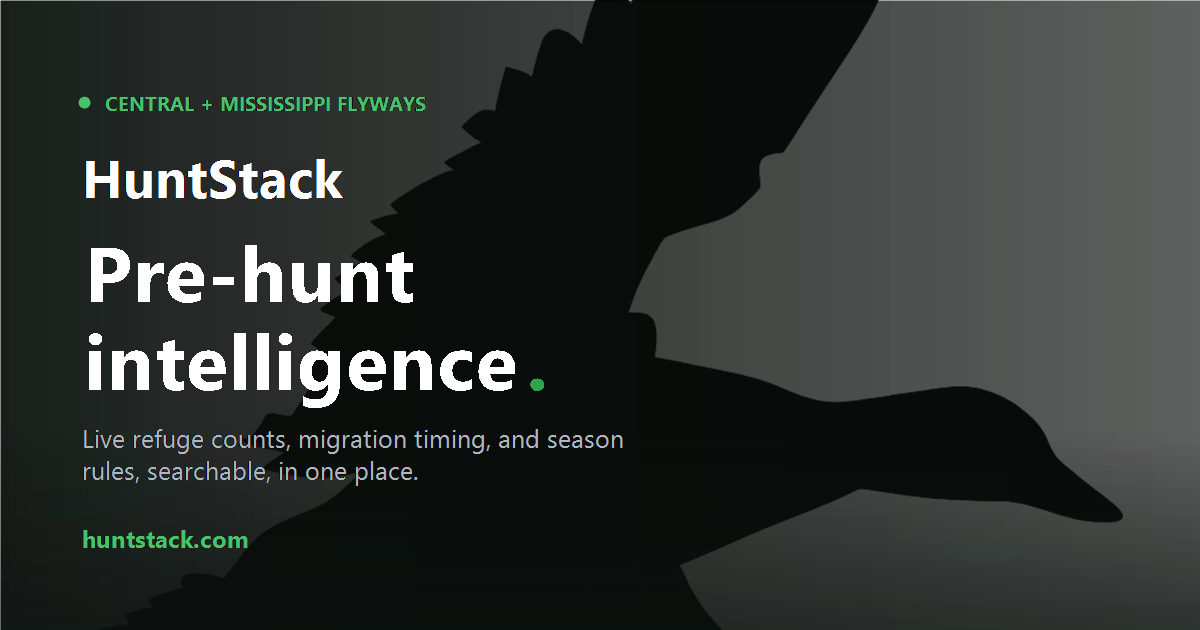
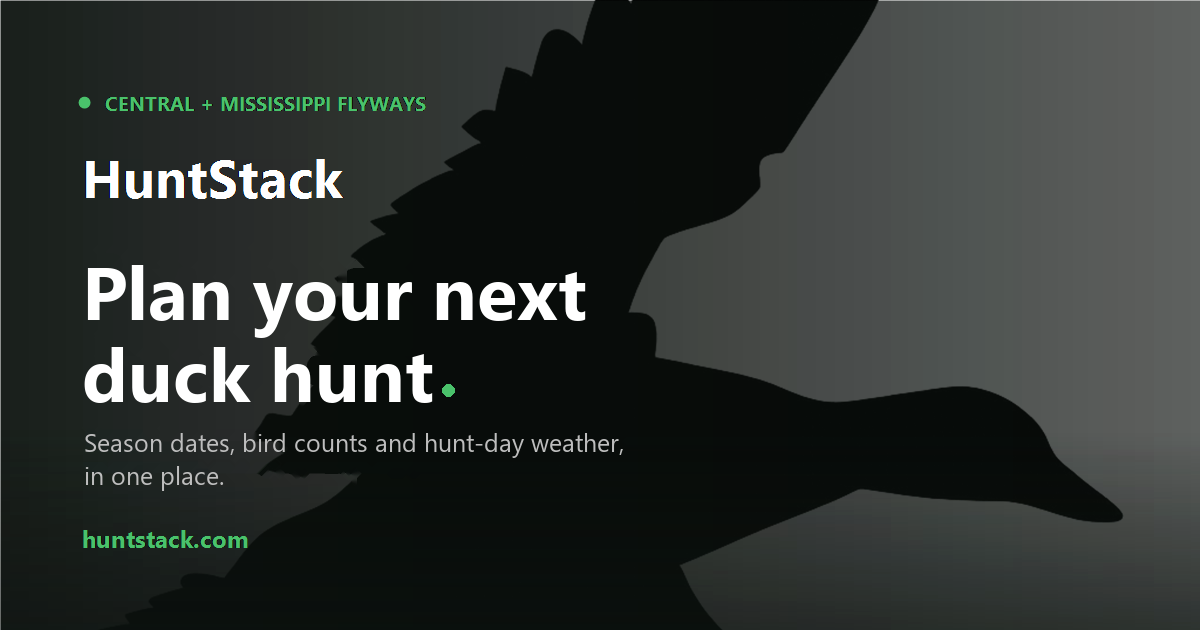
Lead the home page with hunt planning
The home page now opens with "Plan your next duck hunt" and a question box that sends straight to the chat, with three example questions. Feature cards are the questions a hunt starts with (is it open, are the birds there, is this weekend worth it). The stats strip shows checked numbers instead of the old 800+ count rows, and coverage names only the six states with full season data.

The menu leads with Where to Hunt, Migration, Regulations and Ask AI. The page title, descriptions, link-preview image and README tagline carry the same pitch.

Changed region(s): [[0.0617, 0.3921, 0.5242, 0.7841]]

diff --git a/apps/web/src/pages/HomePage.tsx b/apps/web/src/pages/HomePage.tsx
@@ -1,55 +1,77 @@
-import { Link } from 'react-router-dom'
-import { ArrowRight, TrendingUp, MapPin, FileText, MessageSquare, Bird, Zap, BarChart2, Compass } from 'lucide-react'
+import { useState } from 'react'
+import { Link, useNavigate } from 'react-router-dom'
+import { ArrowRight, TrendingUp, MapPin, FileText, MessageSquare, Bird, Zap, BarChart2, Compass, Send } from 'lucide-react'
 
-const features = [
+// Planning steps, in the order a hunter works through them.
+const steps = [
+  {
+    icon: FileText,
+    question: 'Is it open?',
+    title: 'Regulations',
+    description: 'Season dates by zone, bag limits and licenses, entered from each state agency with a link to the source.',
+    href: '/regulations',
+    cta: 'Check seasons',
+  },
   {
     icon: Bird,
-    title: 'Migration Intelligence',
-    description: 'Live refuge counts, week-over-week deltas, cold front push scores, and flyway flow — updated weekly.',
+    question: 'Are the birds there?',
+    title: 'Migration',
+    description: 'Refuge and aerial survey counts, week-over-week changes and cold-front push scores across both flyways.',
     href: '/migration',
-    cta: 'View Dashboard',
+    cta: 'See migration',
   },
   {
     icon: Compass,
+    question: 'Is this weekend worth it?',
     title: 'Where to Hunt',
-    description: 'Ranked public hunting areas scored by current bird activity, open seasons, weather, and distance from you.',
+    description: 'Public areas near you ranked by bird numbers, open seasons, hunt-day weather and distance.',
     href: '/where-to-hunt',
-    cta: 'Find Locations',
-  },
-  {
-    icon: FileText,
-    title: 'Regulation Intelligence',
-    description: 'Structured seasons, bag limits, and license requirements for TX, NM, AR, LA, KS, OK — no PDFs.',
-    href: '/regulations',
-    cta: 'Check Regulations',
+    cta: 'Find a spot',
   },
   {
     icon: MessageSquare,
-    title: 'Ask AI',
-    description: 'Ask in plain language. Answers search the web and back it up with our season, license and migration data.',
+    question: 'Anything else?',
+    title: 'Ask',
+    description: 'Ask in plain language. Answers search the web and check it against our season and survey data, with sources.',
     href: '/chat',
-    cta: 'Ask a Question',
+    cta: 'Ask a question',
   },
 ]
 
+// Keep these true: check against the database when the data grows.
 const stats = [
-  { value: '800+', label: 'Refuge count rows' },
-  { value: '7', label: 'Live data sources' },
-  { value: '6', label: 'Priority states' },
-  { value: '2', label: 'Flyways covered' },
+  { value: '6', label: 'States with full season rules' },
+  { value: '5,200+', label: 'Survey counts' },
+  { value: '1997', label: 'Survey history back to' },
+  { value: '2', label: 'Flyways' },
 ]
 
 const flyways = [
-  { name: 'Central Flyway', states: 'TX · NM · KS · OK', color: 'text-forest-400' },
-  { name: 'Mississippi Flyway', states: 'AR · LA · MO', color: 'text-accent-400' },
+  { name: 'Central Flyway', states: 'TX · OK · KS · NM', note: null, color: 'text-forest-400' },
+  { name: 'Mississippi Flyway', states: 'AR · LA', note: 'Survey counts also for MO · IL', color: 'text-accent-400' },
+]
+
+const exampleQuestions = [
+  'Is duck season open in the Kansas Low Plains this weekend?',
+  'Where should I hunt snow geese near Amarillo?',
+  'What is the duck bag limit in Arkansas?',
 ]
 
 export function HomePage() {
+  const navigate = useNavigate()
+  const [question, setQuestion] = useState('')
+
+  const ask = (text: string) => {
+    const q = text.trim()
+    if (!q) return
+    navigate(`/chat?q=${encodeURIComponent(q)}`)
+  }
+
   return (
     <div>
       {/* Hero */}
       <section className="bg-earth-900 dark:bg-[#0d1117] border-b border-earth-800 dark:border-[#21262d]">
-        <div className="max-w-7xl mx-auto px-4 sm:px-6 lg:px-8 py-20 md:py-28">
+        <div className="max-w-7xl mx-auto px-4 sm:px-6 lg:px-8 py-16 md:py-24">
           <div className="max-w-2xl">
             {/* Eyebrow */}
             <div className="inline-flex items-center gap-2 px-3 py-1 rounded-full border border-forest-700 bg-forest-900/40 mb-6">
@@ -58,23 +80,67 @@ export function HomePage() {
             </div>
 
             <h1 className="text-4xl md:text-5xl lg:text-6xl font-bold leading-tight text-white">
-              Pre-hunt intelligence
+              Plan your next duck hunt
               <span className="text-forest-400">.</span>
             </h1>
             <p className="mt-5 text-lg md:text-xl text-earth-300 leading-relaxed">
-              Replace Googling across state websites and PDF regulations with structured data, live refuge counts, and AI.
+              Season dates, bird counts and hunt-day weather in one place, instead of a dozen agency
+              websites and PDFs.
             </p>
-            <div className="mt-10 flex flex-col sm:flex-row gap-3">
-              <Link to="/migration" className="btn-primary text-base px-6 py-3 inline-flex items-center justify-center">
-                <TrendingUp className="mr-2 w-5 h-5" />
-                Migration Dashboard
-              </Link>
-              <Link
-                to="/where-to-hunt"
-                className="btn inline-flex items-center justify-center bg-white/10 text-white hover:bg-white/20 border border-white/20 text-base px-6 py-3"
-              >
+
+            {/* Ask box */}
+            <form
+              onSubmit={(e) => {
+                e.preventDefault()
+                ask(question)
+              }}
+              className="mt-8"
+            >
+              <label htmlFor="home-ask" className="sr-only">Ask a question about your hunt</label>
+              <div className="flex flex-col sm:flex-row gap-2">
+                <input
+                  id="home-ask"
+                  type="text"
+                  value={question}
+                  onChange={(e) => setQuestion(e.target.value)}
+                  placeholder="Ask anything about your hunt"
+                  maxLength={500}
+                  className="flex-1 min-w-0 rounded-md px-4 py-3 text-base bg-white/10 text-white placeholder-earth-400 border border-white/20 focus:outline-none focus:ring-2 focus:ring-forest-500"
+                />
+                <button
+                  type="submit"
+                  disabled={!question.trim()}
+                  className="btn-primary text-base px-5 py-3 inline-flex items-center justify-center disabled:opacity-50"
+                >
+                  <Send className="mr-2 w-4 h-4" />
+                  Ask
+                </button>
+              </div>
+              <div className="mt-3 flex flex-wrap gap-2">
+                {exampleQuestions.map((q) => (
+                  <button
+                    key={q}
+                    type="button"
+                    onClick={() => ask(q)}
+                    className="text-left text-sm px-3 py-1.5 rounded-full border border-white/15 text-earth-300 hover:bg-white/10 hover:text-white transition-colors"
+                  >
+                    {q}
+                  </button>
+                ))}
+              </div>
+            </form>
+
+            <div className="mt-8 flex flex-col sm:flex-row gap-3">
+              <Link to="/where-to-hunt" className="btn-primary text-base px-6 py-3 inline-flex items-center justify-center">
                 <MapPin className="mr-2 w-5 h-5" />
                 Where to Hunt
+              </Link>
+              <Link
+                to="/migration"
+                className="btn inline-flex items-center justify-center bg-white/10 text-white hover:bg-white/20 border border-white/20 text-base px-6 py-3"
+              >
+                <TrendingUp className="mr-2 w-5 h-5" />
+                Migration
                 <ArrowRight className="ml-2 w-4 h-4" />
               </Link>
             </div>
@@ -91,10 +157,9 @@ export function HomePage() {
         }}
       >
         <div className="max-w-7xl mx-auto px-4 sm:px-6 lg:px-8 py-6">
-          <div className="grid grid-cols-2 md:grid-cols-4 divide-x"
-            >
+          <div className="grid grid-cols-2 md:grid-cols-4 gap-y-4 md:divide-x">
             {stats.map((stat) => (
-              <div key={stat.label} className="px-6 first:pl-0 last:pr-0 text-center">
+              <div key={stat.label} className="px-2 md:px-6 text-center">
                 <div className="text-2xl font-bold text-forest-500 dark:text-forest-400">{stat.value}</div>
                 <div className="text-sm mt-0.5" style={{ color: `rgb(var(--color-text-secondary))` }}>{stat.label}</div>
               </div>
@@ -103,22 +168,22 @@ export function HomePage() {
         </div>
       </section>
 
-      {/* Feature grid */}
+      {/* Planning steps */}
       <section className="py-16 md:py-20" style={{ backgroundColor: `rgb(var(--color-bg-primary))` }}>
         <div className="max-w-7xl mx-auto px-4 sm:px-6 lg:px-8">
           <div className="mb-10">
             <h2 className="text-2xl font-bold" style={{ color: `rgb(var(--color-text-primary))` }}>
-              Everything you need before you leave the truck
+              Everything you check before you leave the truck
             </h2>
             <p className="mt-2 text-base" style={{ color: `rgb(var(--color-text-secondary))` }}>
-              Built for waterfowl hunters who plan around refuge counts, weather fronts, and migration timing.
+              The questions every waterfowl hunt starts with, answered from agency rules, survey counts and the forecast.
             </p>
           </div>
           <div className="grid grid-cols-1 md:grid-cols-2 gap-4">
-            {features.map((f) => (
+            {steps.map((s) => (
               <Link
-                key={f.title}
-                to={f.href}
+                key={s.title}
+                to={s.href}
                 className="group rounded-lg border p-6 transition-colors hover:border-forest-500/50 dark:hover:border-forest-600/50"
                 style={{
                   backgroundColor: `rgb(var(--color-bg-elevated))`,
@@ -127,22 +192,25 @@ export function HomePage() {
               >
                 <div className="flex items-start gap-4">
                   <div className="flex-shrink-0 p-2 rounded-md bg-forest-900/30 dark:bg-forest-900/50 border border-forest-800/40">
-                    <f.icon className="w-5 h-5 text-forest-400" />
+                    <s.icon className="w-5 h-5 text-forest-400" />
                   </div>
                   <div className="flex-1 min-w-0">
                     <div className="flex items-center justify-between gap-2">
                       <h3 className="font-semibold text-base" style={{ color: `rgb(var(--color-text-primary))` }}>
-                        {f.title}
+                        {s.question}
                       </h3>
                       <ArrowRight
                         className="w-4 h-4 flex-shrink-0 opacity-0 group-hover:opacity-100 transition-opacity text-forest-400"
                       />
                     </div>
+                    <div className="text-xs font-semibold uppercase tracking-wide mt-0.5" style={{ color: `rgb(var(--color-text-tertiary))` }}>
+                      {s.title}
+                    </div>
                     <p className="mt-1.5 text-sm leading-relaxed" style={{ color: `rgb(var(--color-text-secondary))` }}>
-                      {f.description}
+                      {s.description}
                     </p>
                     <span className="mt-3 inline-block text-sm font-medium text-forest-500 dark:text-forest-400">
-                      {f.cta} →
+                      {s.cta} →
                     </span>
                   </div>
                 </div>
@@ -173,7 +241,8 @@ export function HomePage() {
                 Central &amp; Mississippi Flyways
               </h2>
               <p className="mt-2 text-sm" style={{ color: `rgb(var(--color-text-secondary))` }}>
-                V1 focuses on the highest-volume waterfowl corridors in North America, with weekly survey data from federal and state sources.
+                Six states have full seasons, regulations and survey counts today. More survey sites and states
+                across both flyways are on the way.
               </p>
             </div>
             <div className="md:w-2/3 grid grid-cols-1 sm:grid-cols-2 gap-3">
@@ -190,6 +259,11 @@ export function HomePage() {
                   <div className="mt-1 text-sm font-mono tracking-wide" style={{ color: `rgb(var(--color-text-secondary))` }}>
                     {fw.states}
                   </div>
+                  {fw.note && (
+                    <div className="mt-1 text-xs" style={{ color: `rgb(var(--color-text-tertiary))` }}>
+                      {fw.note}
+                    </div>
+                  )}
                 </div>
               ))}
             </div>
@@ -197,7 +271,7 @@ export function HomePage() {
         </div>
       </section>
 
-      {/* CTA strip */}
+      {/* Migration strip */}
       <section className="py-14" style={{ backgroundColor: `rgb(var(--color-bg-primary))` }}>
         <div className="max-w-7xl mx-auto px-4 sm:px-6 lg:px-8">
           <div className="rounded-lg border p-8 flex flex-col md:flex-row md:items-center justify-between gap-6"
@@ -215,13 +289,13 @@ export function HomePage() {
                 See what's moving right now
               </h3>
               <p className="mt-1 text-sm" style={{ color: `rgb(var(--color-text-secondary))` }}>
-                Weekly refuge counts from USFWS, AGFC, LDWF, and eBird — with push factor scoring and migration status.
+                Survey counts from USFWS refuges and state agencies, plus eBird sightings, with cold-front push scores.
               </p>
             </div>
             <div className="flex-shrink-0">
               <Link to="/migration" className="btn-primary inline-flex items-center px-5 py-2.5 text-sm">
                 <TrendingUp className="mr-2 w-4 h-4" />
-                Open Migration Dashboard
+                Open Migration
                 <ArrowRight className="ml-2 w-4 h-4" />
               </Link>
             </div>

diff --git a/apps/web/index.html b/apps/web/index.html
@@ -4,10 +4,10 @@
     <meta charset="UTF-8" />
     <link rel="icon" type="image/svg+xml" href="/favicon.svg" />
     <meta name="viewport" content="width=device-width, initial-scale=1.0" />
-    <title>HuntStack - Pre-hunt intelligence for waterfowl hunters</title>
+    <title>HuntStack - Plan your duck hunt</title>
     <meta
       name="description"
-      content="Live refuge counts, migration timing, and structured state regulations for the Central and Mississippi flyways - searchable in one place."
+      content="Plan your waterfowl hunt in the Central and Mississippi flyways: season dates and bag limits, refuge and survey counts, and hunt-day weather, with an AI assistant that answers from them."
     />
     <link rel="canonical" href="https://huntstack.com/" />
 
@@ -15,22 +15,22 @@
     <meta property="og:type" content="website" />
     <meta property="og:site_name" content="HuntStack" />
     <meta property="og:url" content="https://huntstack.com/" />
-    <meta property="og:title" content="HuntStack - Pre-hunt intelligence for waterfowl hunters" />
+    <meta property="og:title" content="HuntStack - Plan your duck hunt" />
     <meta
       property="og:description"
-      content="Live refuge counts, migration timing, and structured state regulations for the Central and Mississippi flyways - searchable in one place."
+      content="Plan your waterfowl hunt in the Central and Mississippi flyways: season dates and bag limits, refuge and survey counts, and hunt-day weather, with an AI assistant that answers from them."
     />
     <meta property="og:image" content="https://huntstack.com/og-image.png" />
     <meta property="og:image:width" content="1200" />
     <meta property="og:image:height" content="630" />
-    <meta property="og:image:alt" content="HuntStack - pre-hunt intelligence for the Central and Mississippi flyways" />
+    <meta property="og:image:alt" content="HuntStack - waterfowl hunt planning for the Central and Mississippi flyways" />
 
     <!-- Twitter/X -->
     <meta name="twitter:card" content="summary_large_image" />
-    <meta name="twitter:title" content="HuntStack - Pre-hunt intelligence for waterfowl hunters" />
+    <meta name="twitter:title" content="HuntStack - Plan your duck hunt" />
     <meta
       name="twitter:description"
-      content="Live refuge counts, migration timing, and structured state regulations for the Central and Mississippi flyways - searchable in one place."
+      content="Plan your waterfowl hunt in the Central and Mississippi flyways: season dates and bag limits, refuge and survey counts, and hunt-day weather, with an AI assistant that answers from them."
     />
     <meta name="twitter:image" content="https://huntstack.com/og-image.png" />
 

diff --git a/apps/web/src/components/Layout.tsx b/apps/web/src/components/Layout.tsx
@@ -20,16 +20,17 @@ import { AuthModal } from './AuthModal'
 import { DismissibleNotice } from './DismissibleNotice'
 import { feedbackMailto } from '../lib/contact'
 
+// In the order a hunter plans: where, are birds there, is it legal, anything else.
 const primaryNav = [
-  { name: 'Migration', href: '/migration', icon: Bird },
   { name: 'Where to Hunt', href: '/where-to-hunt', icon: Crosshair },
+  { name: 'Migration', href: '/migration', icon: Bird },
+  { name: 'Regulations', href: '/regulations', icon: FileText },
+  { name: 'Ask AI', href: '/chat', icon: MessageSquare },
 ]
 
 const secondaryNav = [
-  { name: 'Regulations', href: '/regulations', icon: FileText },
-  { name: 'Outfitters', href: '/outfitters', icon: Users },
-  { name: 'Ask AI', href: '/chat', icon: MessageSquare },
   { name: 'Map', href: '/map', icon: Map },
+  { name: 'Outfitters', href: '/outfitters', icon: Users },
 ]
 
 // Combined for mobile (Home first, then primary, then secondary)
@@ -77,7 +78,7 @@ export function Layout() {
 
             {/* Desktop Navigation */}
             <nav className="hidden md:flex items-center gap-1">
-              {/* Primary nav — Migration + Where to Hunt */}
+              {/* Primary nav — the planning tools */}
               {primaryNav.map((item) => {
                 const isActive = location.pathname === item.href ||
                   (item.href !== '/' && location.pathname.startsWith(item.href))

diff --git a/README.md b/README.md
@@ -4,7 +4,7 @@
 </h1>
 
 <p align="center">
-  <i>Pre-hunt intelligence for waterfowl hunters: live refuge counts, migration timing and season rules, searchable, in one place.</i>
+  <i>Plan your waterfowl hunt in the Central and Mississippi flyways: season rules, refuge and survey counts, and hunt-day weather in one place, with an AI assistant that answers from them.</i>
 </p>
 
 <h4 align="center">
